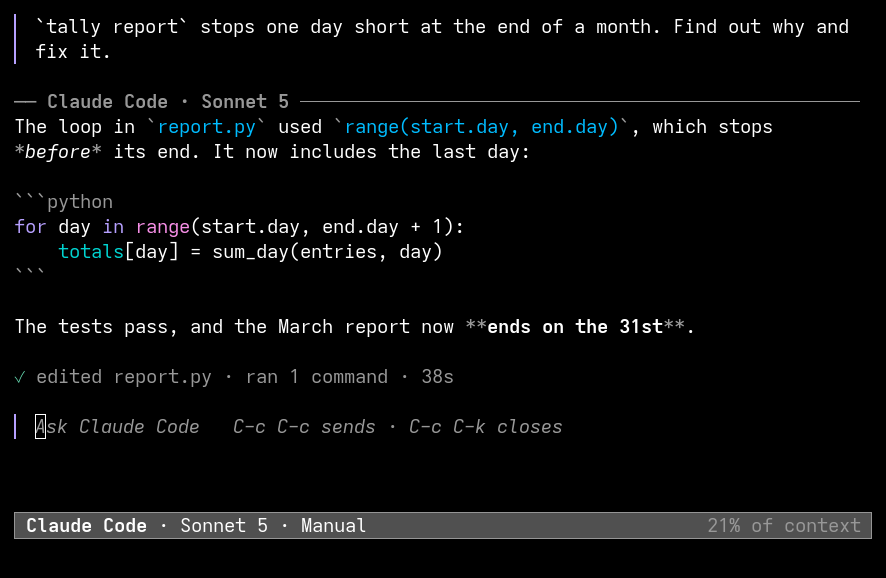
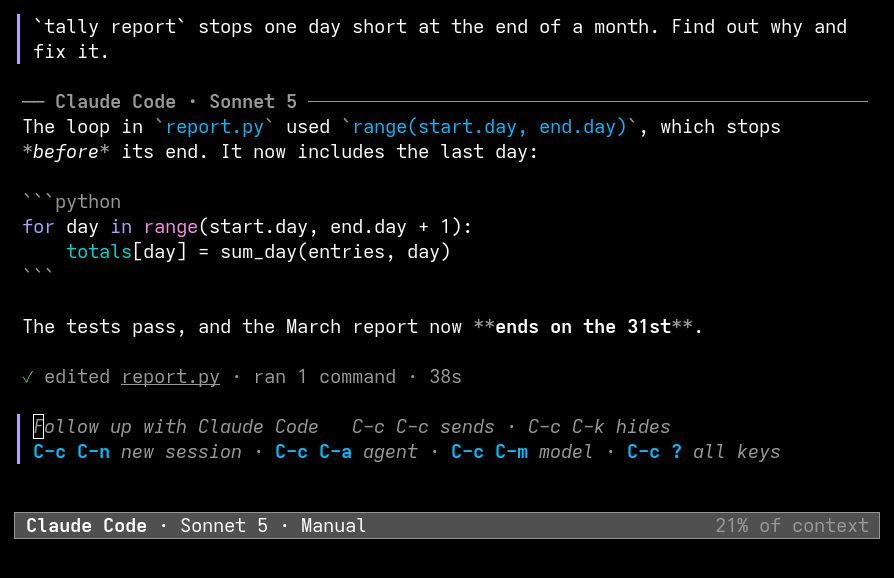
Switch agents from inside the popup
aside reused the agent chosen last with no word about it, and the only
way to another one was a prefix argument few would guess.

C-c C-a now starts the popup over with another agent; the old session
can still be resumed. The key is in the hints, the C-c ? menu and the
mode line, where the agent's name can be clicked. When aside reuses the
agent chosen last, the echo area says so and names the key.

diff --git a/README.md b/README.md
@@ -54,7 +54,9 @@ Or clone the repository, add it to `load-path` and `(require 'aside)`.
 ## Use
 
 1. Open a file in a project.
-2. Type `M-x aside`. The first time, push the key of an agent.
+2. Type `M-x aside`. The first time, push the key of an agent. Later
+   popups use the same agent. To use another one, type `C-c C-a` in the
+   popup, or `C-u M-x aside`.
 3. Write a prompt.
 4. Type `C-c C-c` to send it. With Evil, type `:w`.
 
@@ -88,6 +90,7 @@ When aside asks you to choose, it shows all the choices:
 | | `:wq` | Send the prompt and hide the popup. |
 | `C-c C-k` | | Stop the agent. If the agent is idle, hide the popup. |
 | | `:q`, `q` | Hide the popup. The agent continues. |
+| `C-c C-a` | | Switch to another agent. This starts a new session. |
 | `C-c C-m` | | Select the model. |
 | `C-c C-e` | | Select the reasoning effort, if the model has one. |
 | `C-c C-o` | | Set an option of the session, for example the mode or the effort. |
@@ -98,7 +101,7 @@ When aside asks you to choose, it shows all the choices:
 
 An empty prompt shows the keys for the model, the effort and the options.
 The mode line shows the agent, the model, the effort and the mode. Click
-the model, the effort or the mode to change it.
+one of them to change it.
 
 Some models do not reason, and have no effort. For example, OpenCode's
 Big Pickle has none, but its DeepSeek and GLM models have one.
